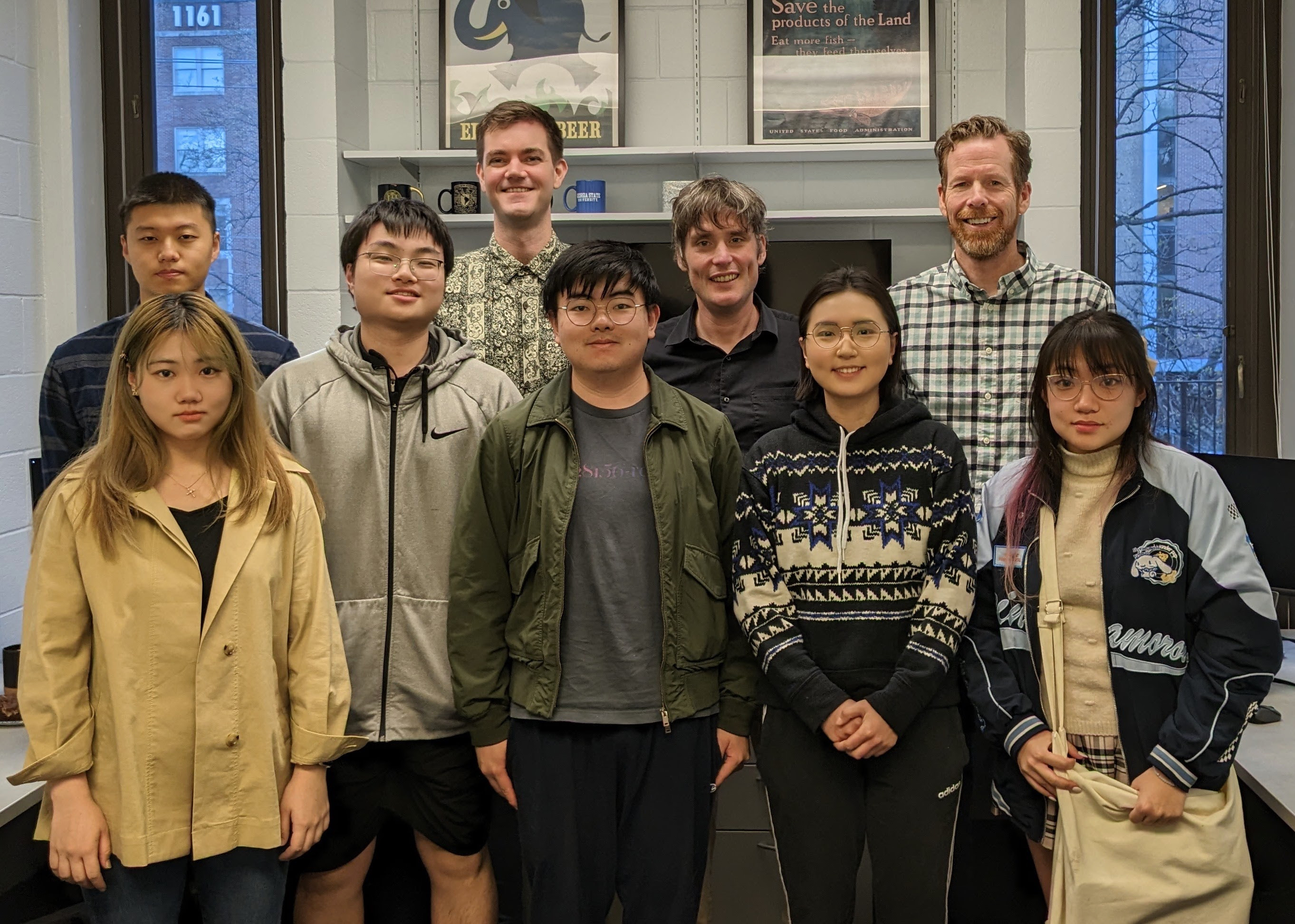
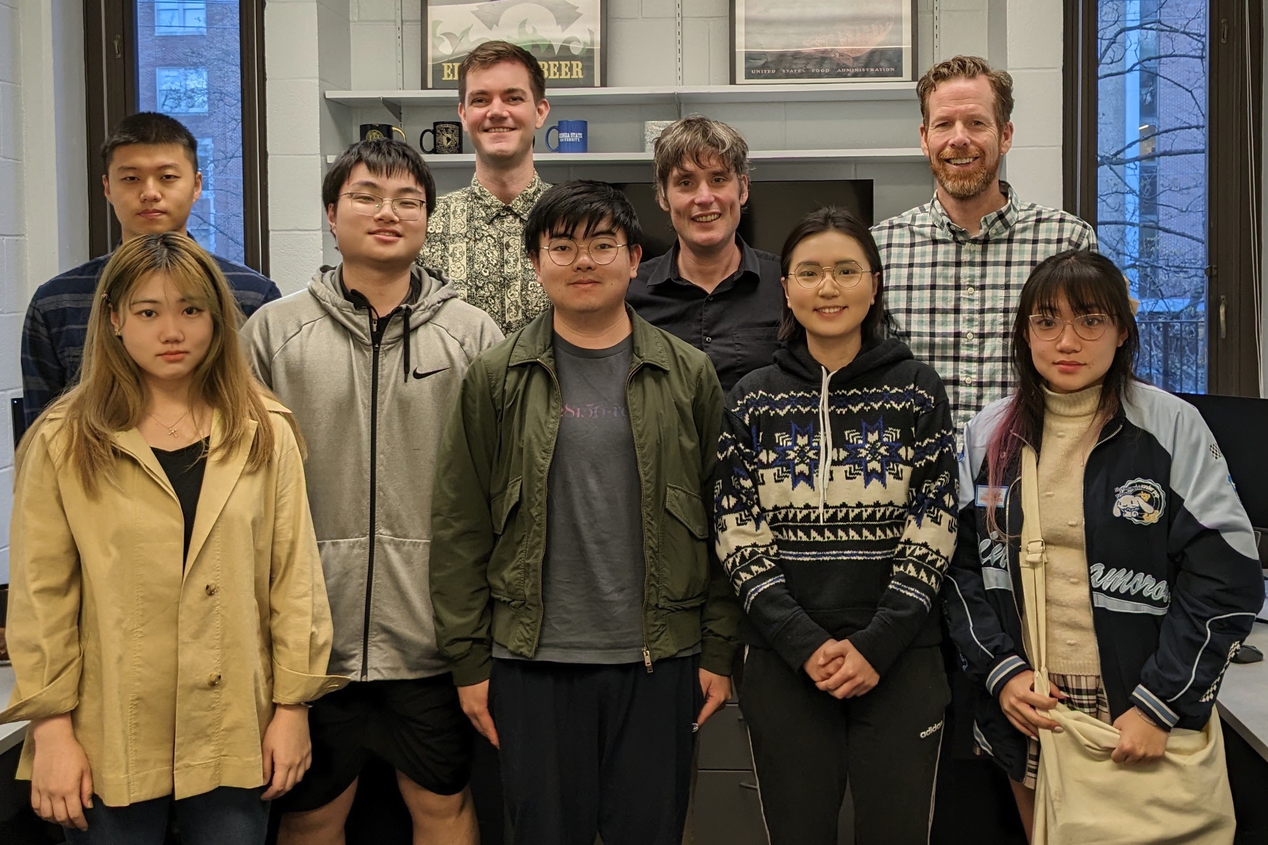
adjust pic size

diff --git a/team/index.md b/team/index.md
@@ -15,7 +15,7 @@ We have a diverse and supportive team with a wide range of skillsets and backgro
 {%
   include figure.html
   image="images/team-pic.jpg"
-  width="70%"
+  width="80%"
 %}
 
 
